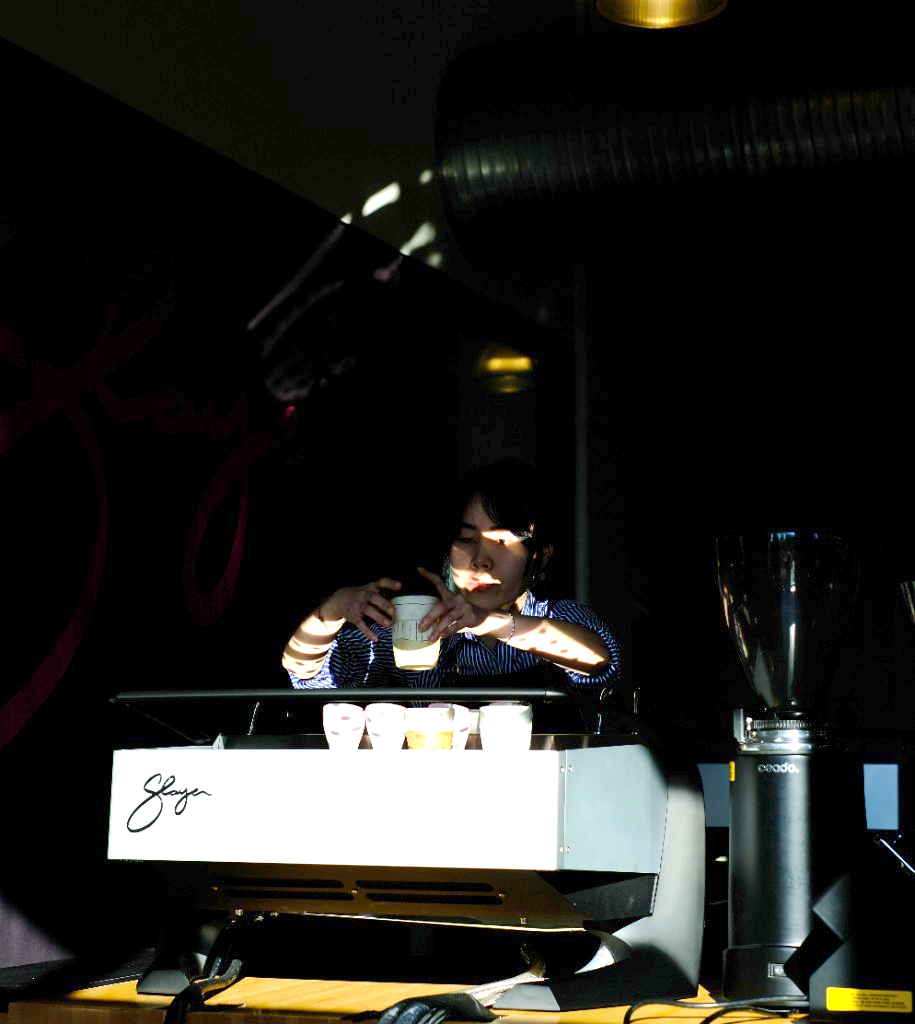
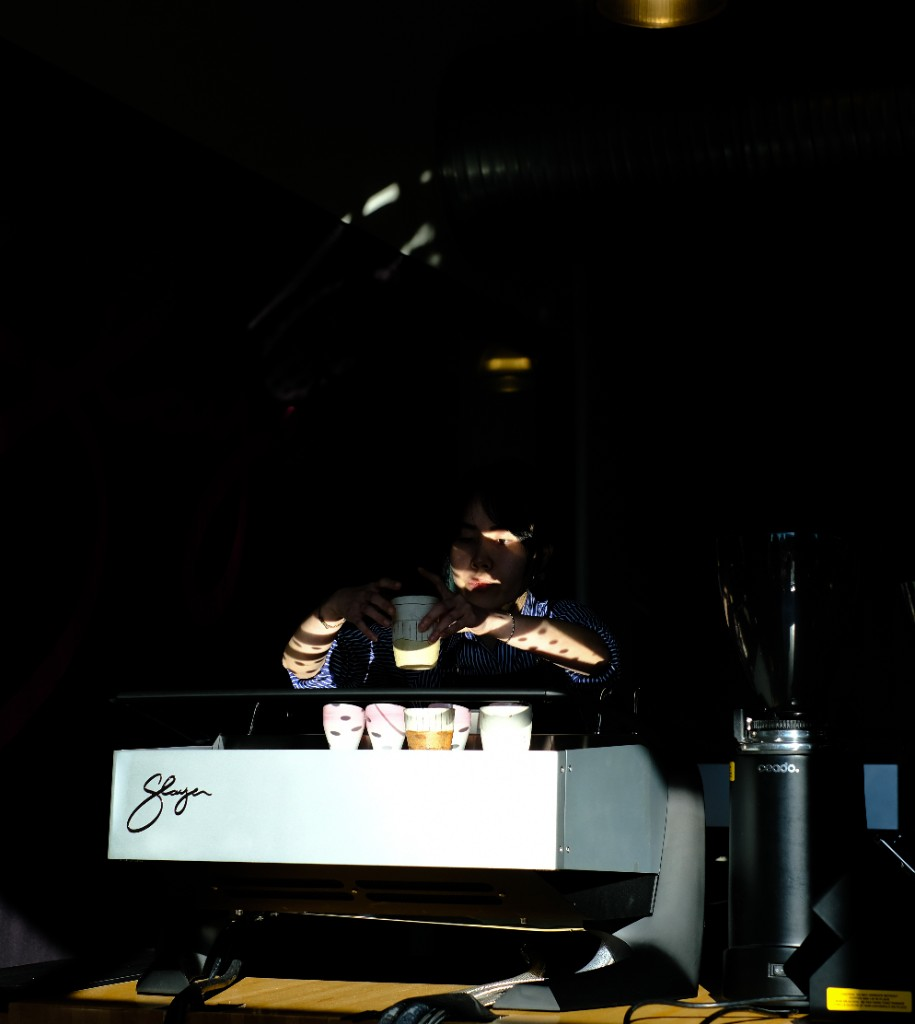
update

diff --git a/components/brand-mark.tsx b/components/brand-mark.tsx
@@ -16,7 +16,7 @@ function CatcherMark({ large }: { large?: boolean }) {
       <span
         className={cn(
           "mt-0.5 font-medium tracking-[0.18em] text-[#8b1a1a]",
-          large ? "text-[11px]" : "text-[8px]"
+          large ? "text-[13px]" : "text-[9px]"
         )}
       >
         -gourmet-
@@ -34,23 +34,9 @@ function CatcherMark({ large }: { large?: boolean }) {
         />
         <path d="M36 2h8l-4 6z" fill="currentColor" />
       </svg>
-      <span className={cn("mt-0.5 tracking-[0.2em] text-zinc-700", large ? "text-[8px]" : "text-[6px]")}>
-        SINCE 2001
+      <span className={cn("mt-0.5 tracking-[0.2em] text-zinc-700", large ? "text-[9px]" : "text-[7px]")}>
+        SINCE 1991
       </span>
-    </span>
-  );
-}
-
-function CasadioMark({ large }: { large?: boolean }) {
-  return (
-    <span className="inline-flex items-center justify-center bg-white">
-      <Image
-        src="/images/brand-casadio.png"
-        alt="Casadio"
-        width={89}
-        height={129}
-        className={cn("w-auto object-contain", large ? "h-24" : "h-[4.5rem]")}
-      />
     </span>
   );
 }
@@ -61,7 +47,7 @@ function SlayerMark({ large }: { large?: boolean }) {
       <span
         className={cn(
           "font-black tracking-[0.12em] text-zinc-900",
-          large ? "text-[20px]" : "text-[13px]"
+          large ? "text-[22px]" : "text-[15px]"
         )}
       >
         SLAYER
@@ -69,7 +55,7 @@ function SlayerMark({ large }: { large?: boolean }) {
       <span
         className={cn(
           "mt-1 tracking-[0.28em] text-zinc-700 uppercase",
-          large ? "text-[8px]" : "text-[6px]"
+          large ? "text-[9px]" : "text-[7px]"
         )}
       >
         espresso machines
@@ -81,7 +67,7 @@ function SlayerMark({ large }: { large?: boolean }) {
 function LaNuovaEraMark({ large }: { large?: boolean }) {
   return (
     <span className="flex flex-col items-center text-center leading-none">
-      <span className={cn("font-semibold text-zinc-900", large ? "text-[17px]" : "text-[12px]")}>
+      <span className={cn("font-semibold text-zinc-900", large ? "text-[19px]" : "text-[13px]")}>
         La
         <span className="mx-px inline-block font-black text-[#6b3fa0]">N</span>
         uovaera
@@ -89,7 +75,7 @@ function LaNuovaEraMark({ large }: { large?: boolean }) {
       <span
         className={cn(
           "mt-1 tracking-[0.22em] text-[#8a6bb8] uppercase",
-          large ? "text-[8px]" : "text-[6px]"
+          large ? "text-[9px]" : "text-[7px]"
         )}
       >
         Coffee Machines
@@ -106,12 +92,12 @@ function MarcafeMark({ large }: { large?: boolean }) {
         alt=""
         width={477}
         height={434}
-        className={cn("w-auto object-contain", large ? "h-10" : "h-7")}
+        className={cn("w-auto object-contain", large ? "h-12" : "h-8")}
       />
-      <span className={cn("mt-1 font-bold tracking-[0.12em] text-zinc-900", large ? "text-sm" : "text-[11px]")}>
+      <span className={cn("mt-1 font-bold tracking-[0.12em] text-zinc-900", large ? "text-base" : "text-xs")}>
         MARCAFÈ
       </span>
-      <span className={cn("mt-0.5 text-[#d0121a]", large ? "text-[11px]" : "text-[8px]")}>
+      <span className={cn("mt-0.5 text-[#d0121a]", large ? "text-xs" : "text-[9px]")}>
         Gran Caffè
       </span>
     </span>
@@ -121,7 +107,7 @@ function MarcafeMark({ large }: { large?: boolean }) {
 function DidiesseMark({ large }: { large?: boolean }) {
   return (
     <span className="flex flex-col items-center leading-none">
-      <span className={cn("font-semibold tracking-wide text-[#1d4ed8]", large ? "text-[18px]" : "text-[13px]")}>
+      <span className={cn("font-semibold tracking-wide text-[#1d4ed8]", large ? "text-[20px]" : "text-[14px]")}>
         didiesse
       </span>
       <span className="mt-1 flex items-center gap-1">
@@ -131,7 +117,7 @@ function DidiesseMark({ large }: { large?: boolean }) {
         <span
           className={cn(
             "ml-0.5 font-medium tracking-wide text-[#e11d8f]",
-            large ? "text-[8px]" : "text-[6px]"
+            large ? "text-[9px]" : "text-[7px]"
           )}
         >
           l&apos;espresso in cialde
@@ -158,7 +144,6 @@ export function BrandMark({
   const large = size === "lg";
 
   if (name === "Catcher Gourmet") return <CatcherMark large={large} />;
-  if (name === "Casadio") return <CasadioMark large={large} />;
   if (name === "Slayer") return <SlayerMark large={large} />;
   if (name === "La Nuova Era") return <LaNuovaEraMark large={large} />;
   if (name === "Marcafé") return <MarcafeMark large={large} />;
@@ -167,13 +152,16 @@ export function BrandMark({
   const logo = rasterLogos[name];
   if (logo) {
     return (
-      <span className={cn("inline-flex items-center justify-center bg-white", className)}>
+      <span className={cn("inline-flex items-center justify-center", className)}>
         <Image
           src={logo.src}
           alt={name}
           width={logo.width}
           height={logo.height}
-          className={cn("w-auto object-contain", large ? "h-24" : "h-[4.5rem]")}
+          className={cn(
+            "max-h-[88%] w-auto max-w-[88%] object-contain",
+            large ? "h-[5.25rem]" : "h-16"
+          )}
         />
       </span>
     );

diff --git a/components/hero-slider.tsx b/components/hero-slider.tsx
@@ -22,8 +22,8 @@ export function HeroSlider() {
   }, [goTo, index]);
 
   return (
-    <section className="relative bg-[#eadfce] px-4 pt-8 pb-8 md:px-6">
-      <div className="relative mx-auto h-[52vh] min-h-[360px] max-h-[640px] w-full max-w-[1280px] overflow-hidden rounded-2xl border border-black/5 bg-black shadow-[0_10px_32px_rgba(0,0,0,0.18)] md:h-[60vh]">
+    <section className="relative bg-[#eadfce] px-3 pt-6 pb-8 md:px-5 md:pt-8">
+      <div className="relative mx-auto h-[68vh] min-h-[460px] max-h-[860px] w-full max-w-[1440px] overflow-hidden rounded-2xl border border-black/5 bg-black shadow-[0_10px_32px_rgba(0,0,0,0.18)] md:h-[78vh]">
         {heroSlides.map((item, i) => (
           <div
             key={item.src}
@@ -48,16 +48,16 @@ export function HeroSlider() {
           </div>
         ))}
 
-        <div className="pointer-events-none absolute inset-x-0 bottom-[14%] z-10 flex flex-col items-center px-4 text-center sm:bottom-[16%]">
-          <h1 className="font-serif text-[28px] font-medium text-white drop-shadow-[0_2px_12px_rgba(0,0,0,0.75)] sm:text-4xl md:text-5xl">
+        <div className="pointer-events-none absolute inset-x-0 bottom-[12%] z-10 flex flex-col items-center px-4 text-center sm:bottom-[14%]">
+          <h1 className="font-serif text-4xl font-medium text-white drop-shadow-[0_2px_12px_rgba(0,0,0,0.75)] sm:text-5xl md:text-6xl lg:text-7xl">
             {slide.title}
           </h1>
-          <p className="mt-1 font-serif text-2xl font-bold tracking-[0.28em] text-white drop-shadow-[0_2px_12px_rgba(0,0,0,0.75)] sm:text-3xl">
+          <p className="mt-2 font-serif text-3xl font-bold tracking-[0.28em] text-white drop-shadow-[0_2px_12px_rgba(0,0,0,0.75)] sm:text-4xl md:text-5xl">
             {slide.brand}
           </p>
           <Link
             href="/espresso-machines"
-            className="pointer-events-auto mt-5 inline-flex h-11 items-center justify-center bg-[#7a4f32] px-10 text-sm font-medium tracking-wide text-white transition-colors hover:bg-[#643f28]"
+            className="pointer-events-auto mt-6 inline-flex h-12 items-center justify-center bg-[#7a4f32] px-12 text-base font-medium tracking-wide text-white transition-colors hover:bg-[#643f28] sm:h-14 sm:px-14 sm:text-lg"
           >
             Shop Now
           </Link>
@@ -69,7 +69,7 @@ export function HeroSlider() {
           aria-label="Previous slide"
           className="absolute top-1/2 left-2 z-10 -translate-y-1/2 p-2 text-orange-500 transition-colors hover:text-orange-600 sm:left-5"
         >
-          <ChevronLeft className="size-9 stroke-[1.5]" />
+          <ChevronLeft className="size-12 stroke-[1.5] sm:size-14" />
         </button>
         <button
           type="button"
@@ -77,7 +77,7 @@ export function HeroSlider() {
           aria-label="Next slide"
           className="absolute top-1/2 right-2 z-10 -translate-y-1/2 p-2 text-orange-500 transition-colors hover:text-orange-600 sm:right-5"
         >
-          <ChevronRight className="size-9 stroke-[1.1]" />
+          <ChevronRight className="size-12 stroke-[1.1] sm:size-14" />
         </button>
 
         <div className="absolute bottom-4 left-1/2 z-10 flex -translate-x-1/2 gap-2.5">
@@ -89,7 +89,7 @@ export function HeroSlider() {
               aria-current={i === index}
               onClick={() => goTo(i)}
               className={cn(
-                "size-2.5 rounded-full transition-colors",
+                "size-3 rounded-full transition-colors sm:size-3.5",
                 i === index ? "bg-white" : "bg-white/45 hover:bg-white/70"
               )}
             />

diff --git a/components/site-header.tsx b/components/site-header.tsx
@@ -136,16 +136,16 @@ export function SiteHeader() {
       </nav>
 
       {openItem && isBrandsMega(openItem) ? (
-        <div className="absolute inset-x-0 top-full border-t border-[#e2d6c6] bg-gradient-to-b from-[#fffaf4] to-[#f3ebe0] shadow-sm">
-          <div className="mx-auto flex max-w-[1280px] gap-3 overflow-x-auto px-4 py-6 lg:px-6">
+        <div className="absolute inset-x-0 top-full border-t border-zinc-300 bg-gradient-to-b from-white to-[#c8c8c8] shadow-md">
+          <div className="mx-auto flex max-w-[1280px] items-stretch gap-2 overflow-visible px-3 py-6 sm:gap-3 sm:px-6 lg:px-8 lg:py-7">
             {openItem.brands.map((name) => (
               <Link
                 key={name}
                 href={brandPageHref(name)}
                 onClick={close}
-            className="flex h-40 w-40 shrink-0 items-center justify-center rounded-md border border-zinc-200 bg-white px-3"
+                className="flex min-h-[140px] min-w-0 flex-1 items-center justify-center rounded-xl bg-[#e6e6e6] px-1.5 py-4 shadow-[inset_0_0_0_1px_rgba(0,0,0,0.06)] transition-all duration-300 ease-out hover:z-10 hover:-translate-y-1.5 hover:scale-[1.06] hover:bg-[#f3f3f3] hover:shadow-[0_12px_24px_rgba(0,0,0,0.16)] sm:min-h-[160px] sm:px-2"
               >
-                <BrandMark name={name} />
+                <BrandMark name={name} size="lg" />
               </Link>
             ))}
           </div>
@@ -191,7 +191,7 @@ export function SiteHeader() {
             <div className="flex gap-8">
               {openItem.featured.map((brand) => (
                 <div key={brand.cta} className="flex w-36 flex-col items-center">
-                  <div className="flex h-24 w-36 items-center justify-center border border-zinc-200 bg-white">
+                  <div className="flex h-28 w-36 items-center justify-center rounded-xl bg-[#e6e6e6] shadow-[inset_0_0_0_1px_rgba(0,0,0,0.06)] transition-all duration-300 ease-out hover:-translate-y-1 hover:scale-105 hover:bg-[#f3f3f3] hover:shadow-[0_10px_20px_rgba(0,0,0,0.14)]">
                     {brand.src ? (
                       <div className="relative h-20 w-32">
                         <Image
@@ -203,7 +203,7 @@ export function SiteHeader() {
                         />
                       </div>
                     ) : brand.name ? (
-                      <BrandMark name={brand.name} />
+                      <BrandMark name={brand.name} size="lg" />
                     ) : null}
                   </div>
                   <Link

diff --git a/lib/site.ts b/lib/site.ts
@@ -7,7 +7,6 @@ export const navItems = [
     mega: "brands",
     brands: [
       "Catcher Gourmet",
-      "Casadio",
       "Eureka 1920",
       "Slayer",
       "La Nuova Era",
@@ -34,10 +33,10 @@ export const navItems = [
     featured: [
       {
         src: "",
-        name: "Casadio",
-        alt: "Casadio Bologna 1958",
-        href: "/espresso-machines?brand=casadio",
-        cta: "View Casadio Catalog >",
+        name: "Slayer",
+        alt: "Slayer espresso machines",
+        href: "/espresso-machines?brand=slayer",
+        cta: "View Slayer Catalog >",
       },
     ],
   },
@@ -63,13 +62,6 @@ export const navItems = [
         alt: "Eureka 1920",
         href: "/grinders?brand=eureka-1920",
         cta: "View Eureka Grinder",
-      },
-      {
-        src: "",
-        name: "Casadio",
-        alt: "Casadio Bologna 1958",
-        href: "/grinders?brand=casadio",
-        cta: "View Casadio",
       },
     ],
   },
@@ -134,7 +126,7 @@ export const heroSlides = [
   },
   {
     src: "/images/hero-slayer-barista.png",
-    alt: "Barista preparing espresso on a Slayer machine",
+    alt: "Barista pulling espresso on a white Slayer machine beside a Ceado grinder",
     title: "Crafted for Flavor",
     brand: "SLAYER",
     fit: "contain",
@@ -628,7 +620,6 @@ export const brandCatalog = [
 
 export const brandLogos = [
   { name: "Catcher Gourmet", href: brandPageHref("Catcher Gourmet") },
-  { name: "Casadio", href: brandPageHref("Casadio") },
   { name: "Eureka 1920", href: brandPageHref("Eureka 1920") },
   { name: "Slayer", href: brandPageHref("Slayer") },
   { name: "La Nuova Era", href: brandPageHref("La Nuova Era") },

diff --git a/components/value-props.tsx b/components/value-props.tsx
@@ -6,18 +6,21 @@ const icons = [ShieldCheck, Truck, Heart];
 
 export function ValueProps() {
   return (
-    <section className="bg-[#f6f1e8]">
-      <div className="mx-auto grid max-w-[1100px] grid-cols-1 gap-12 px-6 py-14 md:grid-cols-3 md:gap-8 md:py-16">
+    <section className="bg-[#5c3d2e] px-4 py-12 md:px-8 md:py-16">
+      <div className="mx-auto grid max-w-[1100px] grid-cols-1 gap-5 md:grid-cols-3 md:gap-6">
         {valueProps.map((item, i) => {
           const Icon = icons[i];
           return (
-            <div key={item.title} className="text-center">
-              <div className="mx-auto flex size-14 items-center justify-center rounded-full border border-[#d4b89a]">
-                <Icon className="size-6 stroke-[1.4] text-[#c4a484]" />
+            <article
+              key={item.title}
+              className="rounded-2xl border border-[#e8c9a4]/45 bg-[#3d2416] px-6 py-10 text-center shadow-[0_8px_24px_rgba(0,0,0,0.18)]"
+            >
+              <div className="mx-auto flex size-14 items-center justify-center rounded-full border-2 border-[#e8c9a4]">
+                <Icon className="size-6 stroke-[1.6] text-[#f6ead8]" />
               </div>
-              <h2 className="mt-4 font-serif text-xl text-zinc-800">{item.title}</h2>
-              <p className="mt-2 text-sm leading-relaxed text-zinc-400">{item.body}</p>
-            </div>
+              <h2 className="mt-4 font-serif text-xl text-[#fff8ef] md:text-2xl">{item.title}</h2>
+              <p className="mt-2 text-sm leading-relaxed text-[#ead9c4]">{item.body}</p>
+            </article>
           );
         })}
       </div>

diff --git a/components/about-us/about-page.tsx b/components/about-us/about-page.tsx
@@ -201,9 +201,9 @@ export function AboutPage() {
             <Link
               key={brand.name}
               href={brand.href}
-              className="flex h-40 w-40 items-center justify-center rounded-md border border-zinc-200 bg-white px-3"
+              className="flex h-40 w-36 items-center justify-center rounded-xl bg-[#e6e6e6] px-2 shadow-[inset_0_0_0_1px_rgba(0,0,0,0.06)] transition-all duration-300 ease-out hover:z-10 hover:-translate-y-1.5 hover:scale-[1.06] hover:bg-[#f3f3f3] hover:shadow-[0_12px_24px_rgba(0,0,0,0.16)]"
             >
-              <BrandMark name={brand.name} />
+              <BrandMark name={brand.name} size="lg" />
             </Link>
           ))}
         </div>

diff --git a/components/brand-strip.tsx b/components/brand-strip.tsx
@@ -11,7 +11,7 @@ export function BrandStrip() {
           <a
             key={`${brand.name}-${i}`}
             href={brand.href}
-            className="flex h-32 shrink-0 items-center justify-center"
+            className="flex h-32 shrink-0 items-center justify-center transition-transform duration-300 ease-out hover:scale-110"
           >
             <BrandMark name={brand.name} size="lg" />
           </a>
